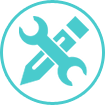
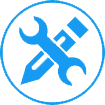
Se corrige color de resalte, pasando del verde turquesa al celeste oscuro. Se aplica el mismo cambio en imagenes y botones. Se eliminan algunas imagenes sin uso.

diff --git a/web/css/style.css b/web/css/style.css
@@ -120,14 +120,14 @@ img { border: 0; max-width: 100%; }
 	border-bottom: 2px solid #fff;
 }
 #topnav nav ul li a:hover {
-	border-bottom: 2px solid #49CBCD;
-	 color: #49CBCD;
+	border-bottom: 2px solid #0099FF;
+	 color: #0099FF;
 	 background: #EEE;
 	 padding-top: 25px;
 }
 #topnav nav ul li.active>a{
-	border-bottom: 3px solid #49CBCD;
-	 color: #49CBCD;
+	border-bottom: 3px solid #0099FF;
+	 color: #0099FF;
 	 background: #DDD;
 }
 
@@ -184,7 +184,7 @@ img { border: 0; max-width: 100%; }
 	transition: all 0.3s ease-out;
   }
   #topnav nav ul li a:hover {
-   background:#49CBCD;
+   background:#0099FF;
 	color: #ffffff;
   }
   #topnav nav ul li a.sel {
@@ -245,7 +245,7 @@ img { border: 0; max-width: 100%; }
 	-moz-border-radius: 50%;
 }
 .images_1_of_4  h3{
-	color:#49CBCD;
+	color:#0099FF;
 	font-size:1.2em;
 	font-family:'Open Sans', sans-serif;
 	font-weight :bold;
@@ -269,7 +269,7 @@ img { border: 0; max-width: 100%; }
 		padding:7px 10px;
 		font-size:0.9em;
 		font-family:'Open Sans', sans-serif;
-		background:#49CBCD;       
+		background:#0099FF;       
         color : #fff;
       	-moz-border-radius: 3px;
 		-webkit-border-radius: 3px;
@@ -280,7 +280,7 @@ img { border: 0; max-width: 100%; }
 		-o-transition: 0.5s all;
 }
 .images_1_of_4 .button a:hover{
-	   background: #296E6F;
+	   background: #0068AD;
         text-decoration:none;
 }
 
@@ -298,7 +298,7 @@ img { border: 0; max-width: 100%; }
 		width:	20%;
 		font-size:0.9em;
 		font-family:'Open Sans', sans-serif;
-		background:#49CBCD;       
+		background:#0099FF;       
         color : #fff;
       	border-radius: 3px;
 		-moz-border-radius: 3px;
@@ -309,7 +309,7 @@ img { border: 0; max-width: 100%; }
 		-moz-transition: 0.5s all;
 }
 .button1:hover{
-	   background: #296E6F;
+	   background: #0068AD;
         text-decoration:none;
 }
 
@@ -325,7 +325,7 @@ img { border: 0; max-width: 100%; }
 }
 .heading_h h3 a{
 	font-size:2.4em;
-	color:#49CBCD;
+	color:#0099FF;
 }
 #gallerylist {
 	-webkit-box-sizing: border-box;
@@ -423,7 +423,7 @@ img { border: 0; max-width: 100%; }
 .button_1 a{
 		padding: 0.600em 1.8em;
 		font-size: 1.5em;
-		background :#49CBCD;       
+		background :#0099FF;       
         color:#fff;
         -moz-border-radius: 3px;
 		-webkit-border-radius: 3px;
@@ -436,7 +436,7 @@ img { border: 0; max-width: 100%; }
 		-o-transition: 0.5s all;
 }
 .button_1 a:hover{
-	    background:#296E6F;
+	    background:#0068AD;
         text-decoration:none; 
 }
 
@@ -662,7 +662,7 @@ color:#C0B9CD;
 }
 #contact > div > div > div.con > form > div.con-button a:hover{
 	text-decoration:none; 
-	  background:#45BDBE;
+	  background:#0068AD;
 }
 #contact > div > div.contact-form > div > div.social-icons > p{
 	font-size: 0.980em;
@@ -689,7 +689,7 @@ color:#C0B9CD;
 /*--blog--*/
 .banner
 {
-	background: #49CBCD url(../images/slider.png) no-repeat;
+	background: #0099FF url(../images/slider.png) no-repeat;
 	background-size: 100% 100%;
 }
 .banner h2{
@@ -723,7 +723,7 @@ color:#C0B9CD;
 	float: right;
 }
 .date {
-	background: #49CBCD;
+	background: #0099FF;
 	font-size: 0.95em;
 	line-height: 18px;
 	font-weight: 500;
@@ -1020,7 +1020,7 @@ li.google a span:hover {
 	-webkit-border-radius: 3px;
 	-moz-border-radius: 3px;
 	-o-border-radius: 3px;
-	background: #49CBCD;
+	background: #0099FF;
 	/*padding: 10px 50px;*/
 	border: none;
 	font-family: 'Open Sans', sans-serif;
@@ -1029,7 +1029,7 @@ li.google a span:hover {
 }
 .button input[type="submit"]:hover,.send_button input[type="submit"]:hover
 {
-	background:#45BDBE;
+	background:#0068AD;
 }
 .Categories {
 	padding: 2.5em 0em;
@@ -1053,7 +1053,7 @@ ul.sidebar li {
 }
 ul.sidebar_1 li a:hover
 {
-	color: #49CBCD;
+	color: #0099FF;
 }
 .hover
 {
@@ -1123,7 +1123,7 @@ ul.sidebar_1 li {
 }
 .tags ul li a:hover{
 	color:#fff;
-	background: #49CBCD;
+	background: #0099FF;
 }
 .footer {
 	text-align: center;
@@ -1140,7 +1140,7 @@ ul.sidebar_1 li {
 	font-size:0.85em;
 }
 .copy p a{
-	color:#49CBCD;
+	color:#0099FF;
 }
 .copy p a:hover{
 	color:#414A5A;
